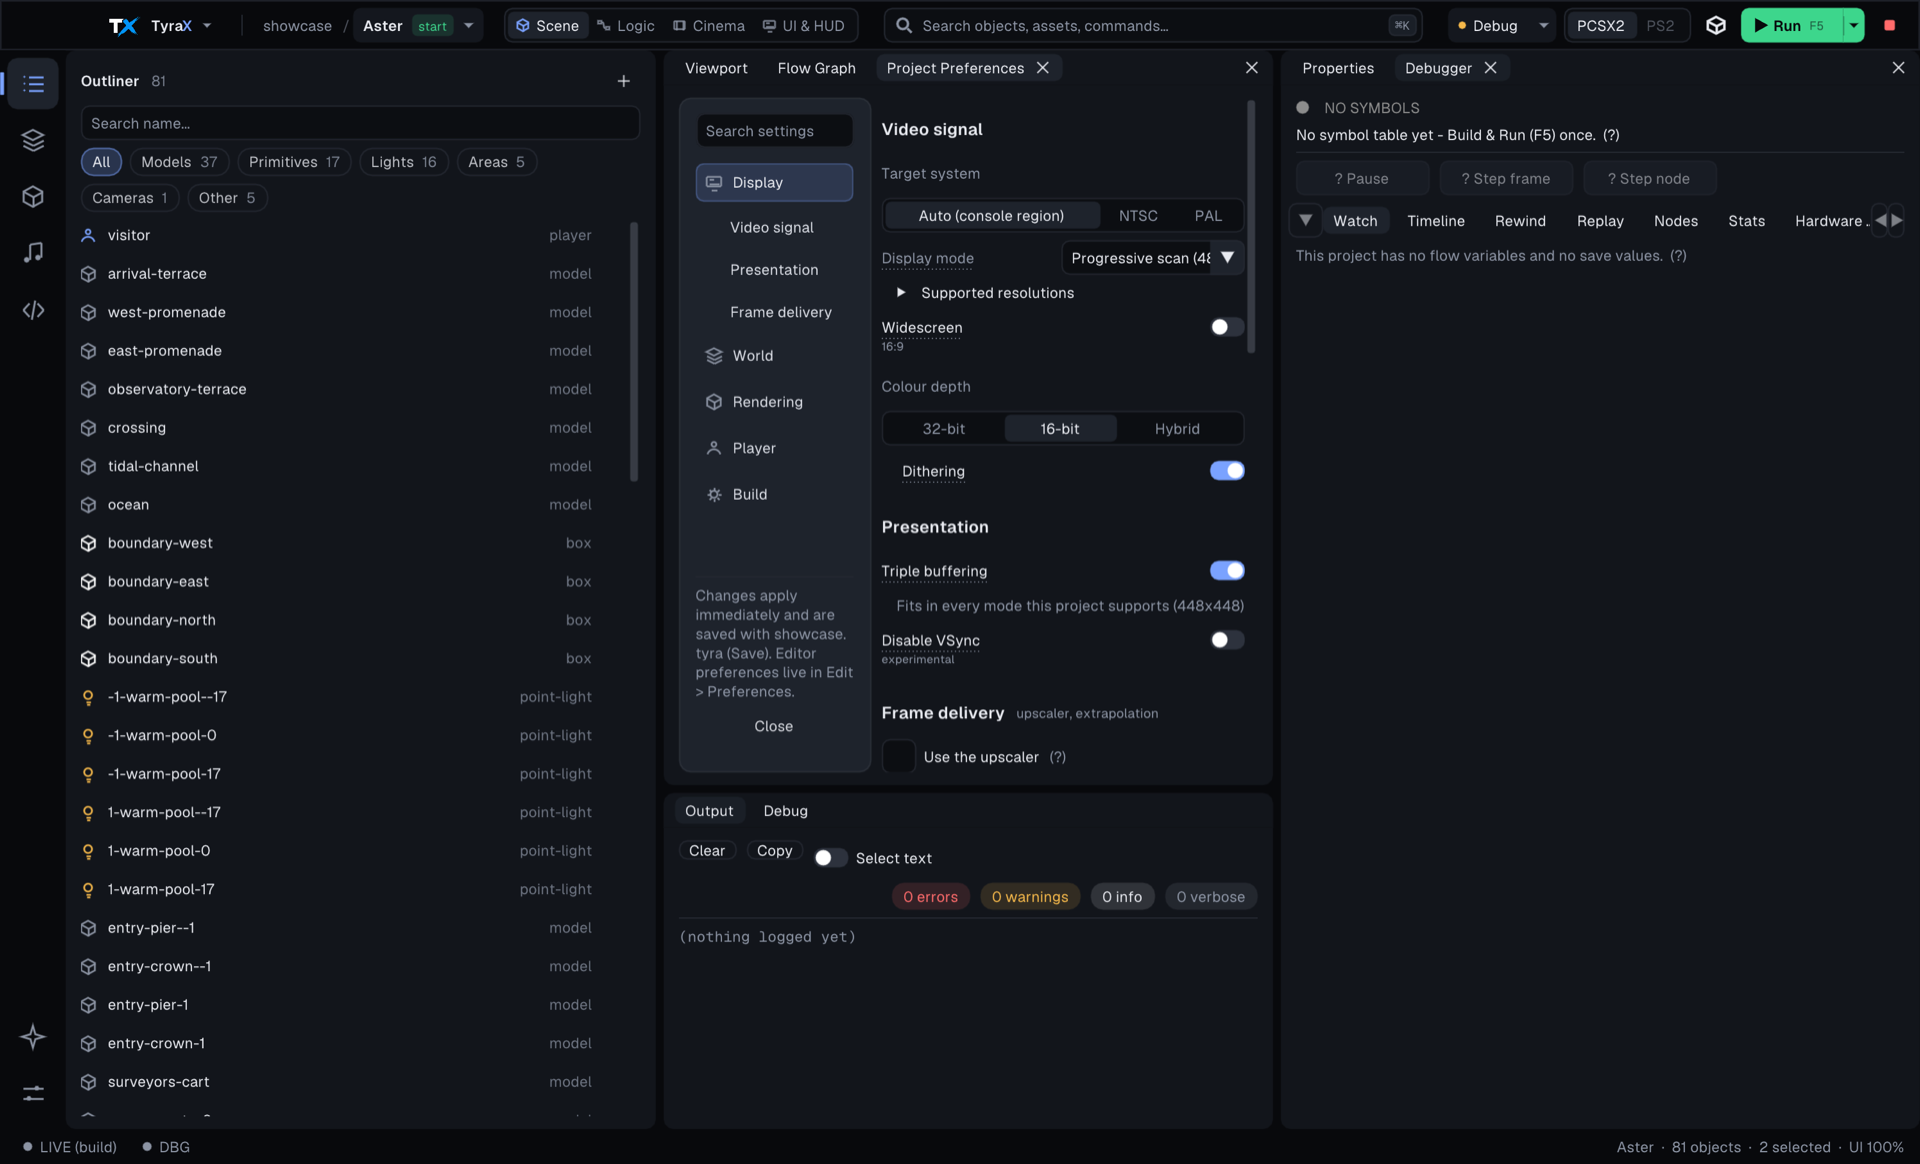
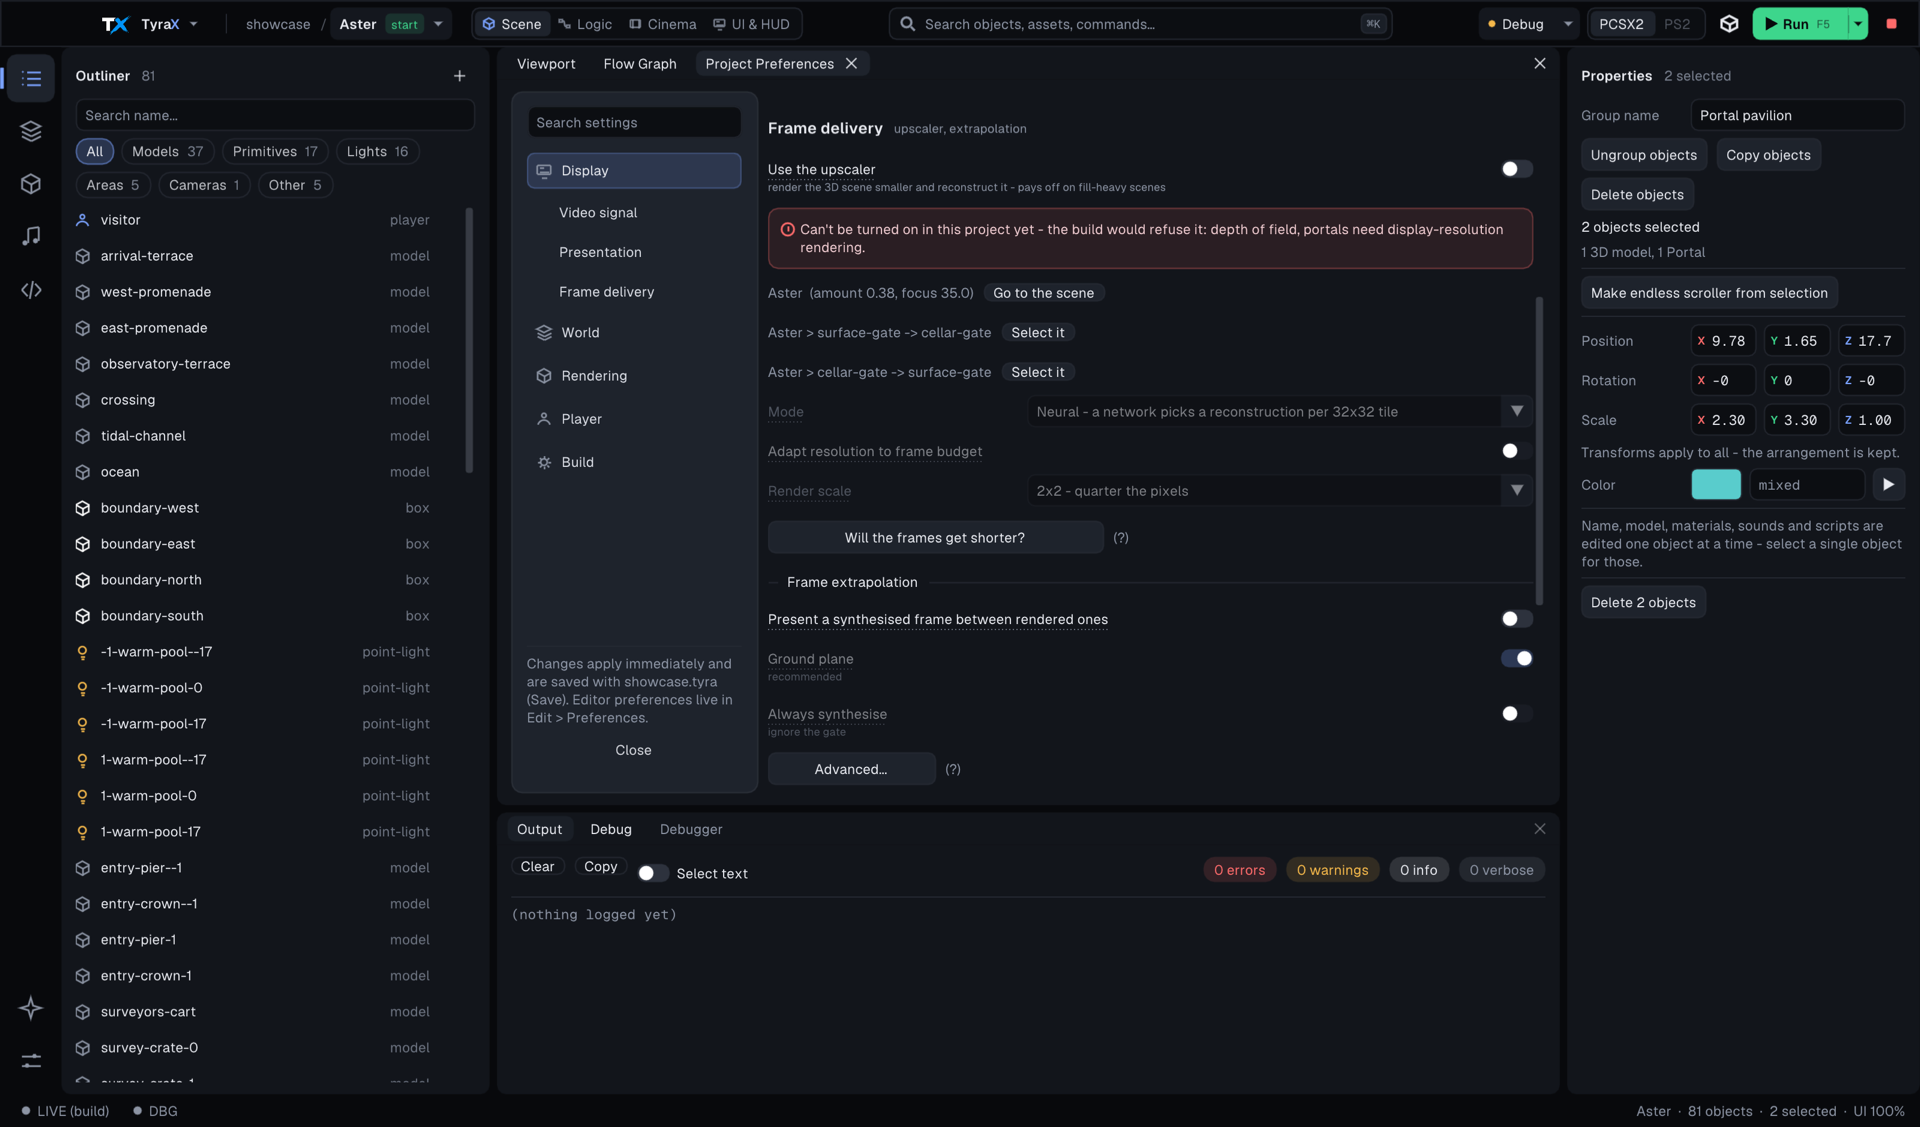
Transform fields drop the unit suffix when it does not fit; prefs doc shot
ui::AxisDrag3 already shows fewer decimals when a value does not fit its
field; a "%.0f deg" rotation ("-0 deg") still ran out of the field in the
docked Properties column. It now drops the unit suffix as the last step
(the row caption says Rotation; typing shows the full text).

docs/img/project-preferences-display.png retaken (showcase copy, 1600x970,
Ctrl+, > Frame delivery, downscaled to 1920 wide like the old one): it
showed the pre-fix Frame delivery (checkbox + "(?)") and the stale
showcase layout with the Debugger over Properties.

Verified: --ui-script shot of the Properties column: X -0 / Y 0 / Z -0.

diff --git a/src/widgets.cpp b/src/widgets.cpp
@@ -122,11 +122,19 @@ static bool axisDrag3Body(const char* label, float v[3], float speed, float vmin
             // typed-in text keep full precision.
             const float room = r.Max.x - style.FramePadding.x * 0.5f - vt.x;
             const char* dot = std::strstr(fmt, "%.");
-            if (dot && dot[2] >= '1' && dot[2] <= '9' && dot[3] == 'f') {
+            if (dot && dot[2] >= '0' && dot[2] <= '9' && dot[3] == 'f') {
                 for (int prec = dot[2] - '0' - 1;
                      prec >= 0 && ImGui::CalcTextSize(buf).x > room; --prec) {
                     std::string f(fmt);
                     f[dot - fmt + 2] = (char)('0' + prec);
+                    ImGui::DataTypeFormatString(buf, IM_ARRAYSIZE(buf), ImGuiDataType_Float, &v[i],
+                                                f.c_str());
+                }
+                // Still too wide: drop the unit suffix (" deg") - the row's
+                // caption says what the numbers are.
+                if (ImGui::CalcTextSize(buf).x > room) {
+                    std::string f(fmt, (size_t)(dot - fmt) + 4);
+                    f[dot - fmt + 2] = '0';
                     ImGui::DataTypeFormatString(buf, IM_ARRAYSIZE(buf), ImGuiDataType_Float, &v[i],
                                                 f.c_str());
                 }
